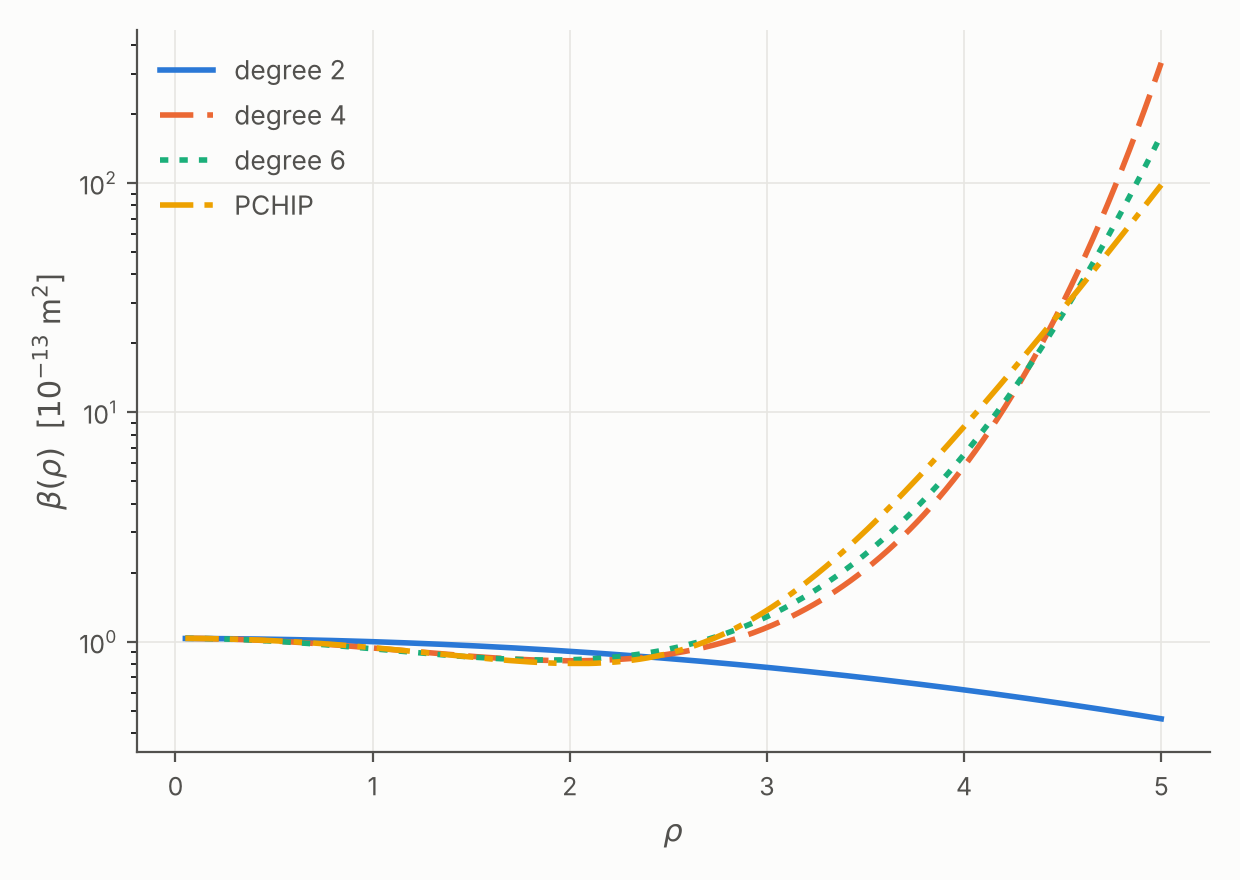
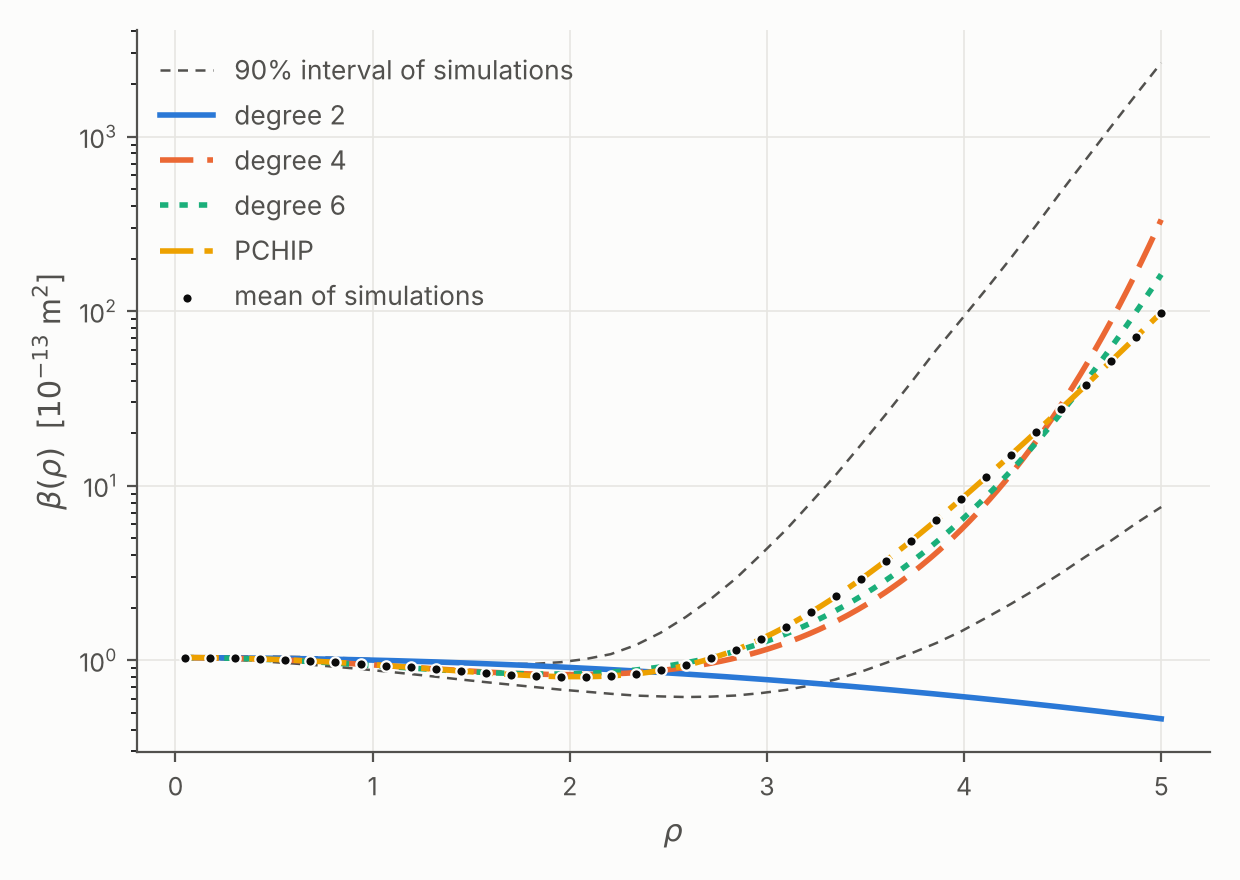
beta overlay: add simulation mean and 90% interval
Claude-Session: https://claude.ai/code/session_01ARZgG8jAQTCvSXmM9EAWMf

diff --git a/experiments/plot_beta_curves.py b/experiments/plot_beta_curves.py
@@ -1,6 +1,7 @@
 """beta(rho) figures for the paper (no statistics text).  Reads curve_external.npz; runs no solver.
 
-  beta_overlay.png      the fitted beta(rho) of every model, overlaid (poly2/4/6, PCHIP)
+  beta_overlay.png      the fitted beta(rho) of every model, overlaid (poly2/4/6, PCHIP), with the simulations'
+                        mean (beta at the MC mean of h) and central 90% interval
   beta_<model>.png      one per model: scatter of the single realizations at each rho, their central 90%
                         interval, and the model's median fit with its 90% bootstrap interval
 
@@ -67,6 +68,7 @@ def main():
     q = 100 * (1 - a.level) / 2
     d_lo, d_hi = np.percentile(beta_i, [q, 100 - q], axis=1)
     grid = boot["grid"]
+    mean_beta = a.Kexp * np.exp(-np.log(keff / K0).mean(1)) / S      # beta at the MC mean of h (what the fits target)
     fit = {}
     for nm in boot["names"]:
         b = boot[nm]
@@ -77,11 +79,14 @@ def main():
 
     # --- overlay of the fitted curves
     fig, ax = plt.subplots(figsize=(6.2, 4.4), facecolor=SURFACE)
+    ax.plot(rhos, d_lo, color=INK2, lw=0.9, ls=(0, (4, 3)), zorder=2, label=f"{level}% interval of simulations")
+    ax.plot(rhos, d_hi, color=INK2, lw=0.9, ls=(0, (4, 3)), zorder=2)
     for nm in boot["names"]:
         ax.plot(grid, fit[nm][0], color=SLOTS[nm], ls=DASH[nm], lw=2, label=LABEL[nm], zorder=3)
+    ax.scatter(rhos, mean_beta, s=14, color=INK, edgecolor=SURFACE, linewidth=0.8, zorder=5, label="mean of simulations")
     ax.set_yscale(scale)
     _style(ax)
-    ax.legend(frameon=False, fontsize=9.5, labelcolor=INK2)
+    ax.legend(frameon=False, fontsize=9.5, labelcolor=INK2, loc="upper left")
     fig.tight_layout()
     fig.savefig(os.path.join(a.outdir, "beta_overlay.png"), dpi=200, facecolor=SURFACE)
     plt.close(fig)
